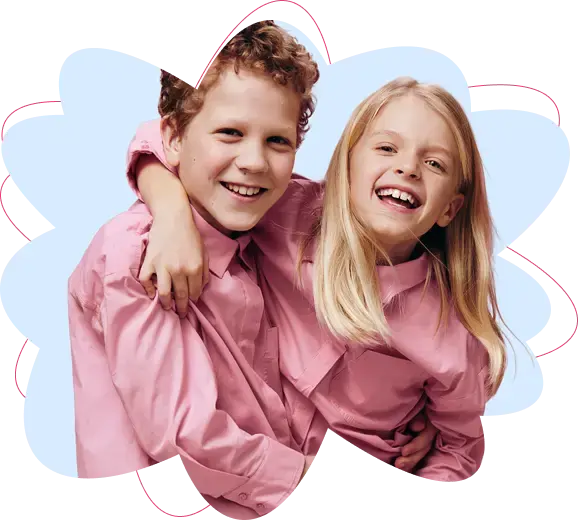
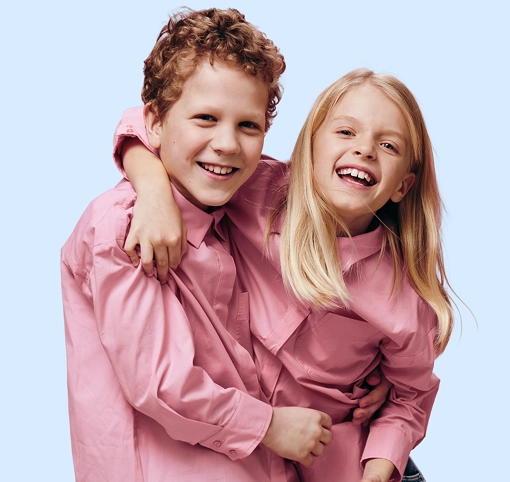
update hero section and add ShapeImg component

diff --git a/src/pages/Home/Hero.tsx b/src/pages/Home/Hero.tsx
@@ -5,8 +5,11 @@ import pinkCircle from "../../assets/home-page/pinkCircle.svg";
 import rocket from "../../assets/home-page/rocket.svg";
 import butterfly from "../../assets/home-page/butterfly.svg";
 import flower from "../../assets/home-page/flower.svg";
-import homePage from "../../assets/home-page/homePage.webp";
+import home from "../../assets/home-page/homePage.webp";
 import {Button} from "../../components/Button.tsx";
+import ShapeImg from "../../components/ShapeImg.tsx";
+import maskImg from "../../assets/home-page/flowerBackground.svg";
+import homeVector from "../../assets/home-page/homeVector.svg";
 
 type Feature = {
     background: string;
@@ -37,10 +40,10 @@ const Home = () => {
     return (
         <section className="mt-36 md:mt-40 px-4 md:px-8">
             <div className="bg-[var(--color-light-yellow)] rounded-3xl px-3 py-12 md:px-12">
-                <div className="grid grid-cols-1 lg:grid-cols-2">
-                    <div className="flex flex-col h-full">
+                <div className="grid grid-cols-1 lg:grid-cols-2 gap-10">
+                    <div className="flex flex-col h-full lg:pt-20">
                         <div className="relative inline-block">
-                            <h1 className="text-title z-10 pb-3 max-w-xl">
+                            <h1 className="text-title z-10 pb-3 lg:max-w-lg xl:max-w-3xl">
                                 Your Pediatric Dentist in Ramsey, NJ
                             </h1>
                             <img src={decorativeWaves}
@@ -63,8 +66,8 @@ const Home = () => {
                             Sign up for the VIP list!
                         </Button>
 
-                        <div className="relative grid grid-cols-1 md:grid-cols-3 lg:grid-cols-2
-                                        xl:grid-cols-[240px_1fr_1fr] gap-3 mt-auto"
+                        <div className="relative grid grid-cols-1 md:grid-cols-3 lg:grid-cols-2 xl:grid-cols-[repeat(3,minmax(280px,max-content))]
+                                        gap-3 md:gap-10 xl:gap-0 lg:mt-20"
                         >
                             {features.map((item) => (
                                 <div key={item.id} className="flex gap-3 items-center">
@@ -84,20 +87,30 @@ const Home = () => {
                                         />
                                     </div>
 
-                                    <p className="text-p1 text-[var(--color-light-black)] flex-1
-                                                  min-w-0 text-balance">
+                                    <p className="text-p1 text-[var(--color-light-black)] flex-1 text-balance min-w-[240px]">
                                         {item.description}
                                     </p>
                                 </div>
                             ))}
                         </div>
                     </div>
-
-                    <img
-                        className="hidden lg:block w-[640px] h-[560px] object-center"
-                        src={homePage}
-                        alt="Two happy children smiling together"
-                    />
+                    <div className="hidden lg:block lg:max-w-[560px] xl:max-w-[600px] aspect-[600/560] self-center
+                                    xl:justify-self-end relative w-full mr-12"
+                    >
+                        <img
+                            src={homeVector}
+                            alt=""
+                            aria-hidden="true"
+                            className="absolute inset-0 left-5 w-full h-full object-contain scale-105 z-0"
+                        />
+                        <ShapeImg
+                            src={home}
+                            alt="Two smiling children"
+                            mask={maskImg}
+                            wrapperClassName="absolute inset-0 z-10"
+                            imgClassName="w-full h-full"
+                        />
+                    </div>
                 </div>
             </div>
         </section>

diff --git a/src/components/ShapeImg.tsx b/src/components/ShapeImg.tsx
@@ -1,0 +1,43 @@
+import  { type ImgHTMLAttributes } from "react";
+import * as React from "react";
+
+type Props = {
+    src: string;
+    alt?: string;
+    mask?: string;
+    wrapperClassName?: string;
+    imgClassName?: string;
+} & ImgHTMLAttributes<HTMLImageElement>;
+
+export const ShapeImg = ({ src,alt="",mask, wrapperClassName = "", imgClassName="",...props }: Props) => {
+
+    return (
+
+        <div className={`relative ${wrapperClassName}`}>
+            <img
+                src={src}
+                alt={alt}
+                className={`object-cover object-center ${imgClassName}`}
+                style={
+                    mask
+                        ? {
+                            WebkitMaskImage: `url("${mask}")`,
+                            maskImage: `url("${mask}")`,
+                            WebkitMaskRepeat: "no-repeat",
+                            maskRepeat: "no-repeat",
+                            WebkitMaskSize: "contain",
+                            maskSize: "contain",
+                            WebkitMaskPosition: "center",
+                            maskPosition: "center",
+                            WebkitMaskMode: "luminance",
+                            maskMode: "luminance",
+                        } as React.CSSProperties
+                        : undefined
+                }
+                {...props}
+            />
+        </div>
+
+    );
+};
+export default ShapeImg

diff --git a/src/app/routes.tsx b/src/app/routes.tsx
@@ -1,6 +1,6 @@
 import { Routes, Route } from "react-router-dom";
 import Layout from "../components/layout/Layout.tsx";
-import Home from "../pages/Home/Home.tsx";
+import Home from "../pages/Home/Hero.tsx";
 
 
 export const AppRoutes = () => {
